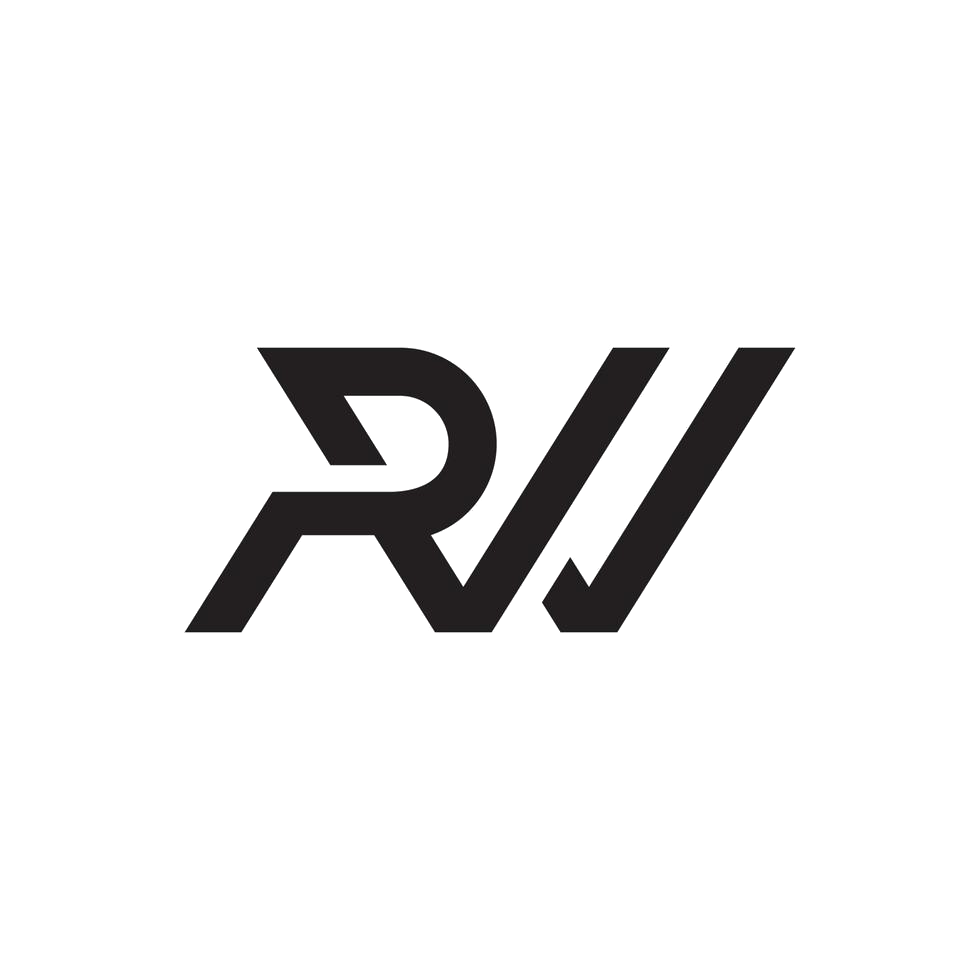
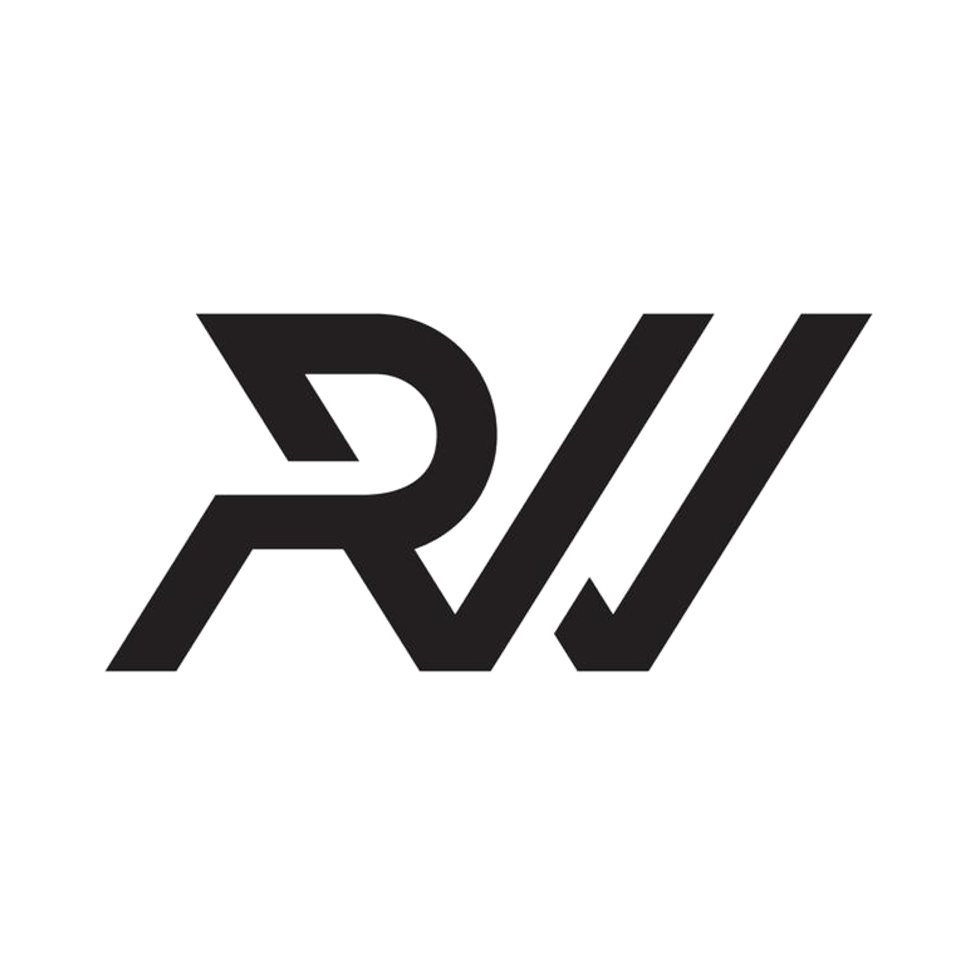
new

Changed region(s): [[0.0918, 0.3061, 0.8878, 0.7041]]

diff --git a/lib/data.ts b/lib/data.ts
@@ -40,6 +40,7 @@ export const projects: Project[] = [
     emoji: '🎟️',
     badge: 'Temps réel',
     badgeColor: 'green',
+    period: '04/2026 – 06/2026',
     tags: ['Next.js 14', 'TypeScript', 'Socket.io', 'PostgreSQL', 'Prisma'],
     images: projectImages('BTKticket', 8, 'BTKticket'),
     role: 'Conception et developpement full-stack du systeme de file d attente',
@@ -60,6 +61,7 @@ export const projects: Project[] = [
     emoji: '🏪',
     badge: 'E-commerce',
     badgeColor: 'green',
+    period: '01/2026 – 04/2026',
     tags: ['Next.js 14', 'TypeScript', 'PostgreSQL', 'Prisma', 'Stripe', 'Zustand'],
     images: projectImages('nexora-plateforme-e-commerce', 9, 'Nexora Plateforme E-commerce'),
     role: 'Conception produit, front-end, back-end et paiement',
@@ -78,6 +80,7 @@ export const projects: Project[] = [
     emoji: '📱',
     badge: 'Mobile',
     badgeColor: 'orange',
+    period: '01/2026 – 04/2026',
     tags: ['Next.js 14', 'TypeScript', 'PostgreSQL', 'Prisma', 'Stripe', 'Zustand'],
     images: projectImages('nexora-app-mobile-e-commerce', 14, 'Nexora App Mobile E-commerce'),
     role: 'Une boutique qui se sent « faite pour mobile » plutôt que « qui marche aussi sur mobile »',
@@ -143,6 +146,27 @@ export const projects: Project[] = [
       'Formulaire de demande de credit integre au tunnel client Jumbo.tn.',
       'Transmission automatique des informations vers les interlocuteurs BTK.',
       'Notification de confirmation client et mise en forme e-mail via SMTP.',
+    ],
+  },
+
+  {
+    id: 'Roue de la Fortune',
+    title: 'Mini projet web — Roue de la Fortune',
+    description:
+      'J ai réalisé une application interactive pour un client dans le secteur des jus de fruits : une roue de la fortune animée, conçue pour animer leur espace de vente et récolter des infos clients.',
+    emoji: '🛞',
+    badge: 'Jeu',
+    badgeColor: 'blue',
+    period: '01/2026',
+    tags: ['HTML ', 'CSS', 'canvas', 'SheetJS', 'JavaScript'],
+    images: projectImages('Roue', 3, 'Roue de la Fortune'),
+    role: 'Une roue de la fortune animée.',
+    impact: 'Conçue pour animer leur espace de vente et récolter des infos clients.',
+    details: [
+      'Roue de la fortune animée intégrant les produits de la marque',
+      'Formulaire d inscription (Nom, Prénom, Email, Évaluation).',
+      'Export des données collectées au format Excel.',
+      'Interface personnalisée selon la charte graphique de La Fruitière.',
     ],
   },
 

diff --git a/components/sections/HeroSection.tsx b/components/sections/HeroSection.tsx
@@ -27,7 +27,7 @@ export default function HeroSection() {
             </div>
 
             <h1 className="font-grotesk text-4xl font-bold leading-[1.05] text-[var(--ice)] sm:text-6xl lg:text-7xl">
-              Hello, je suis
+              Bonjour, je suis
               <br />
               <span className="text-gradient">Ramez Werfelli</span>
             </h1>